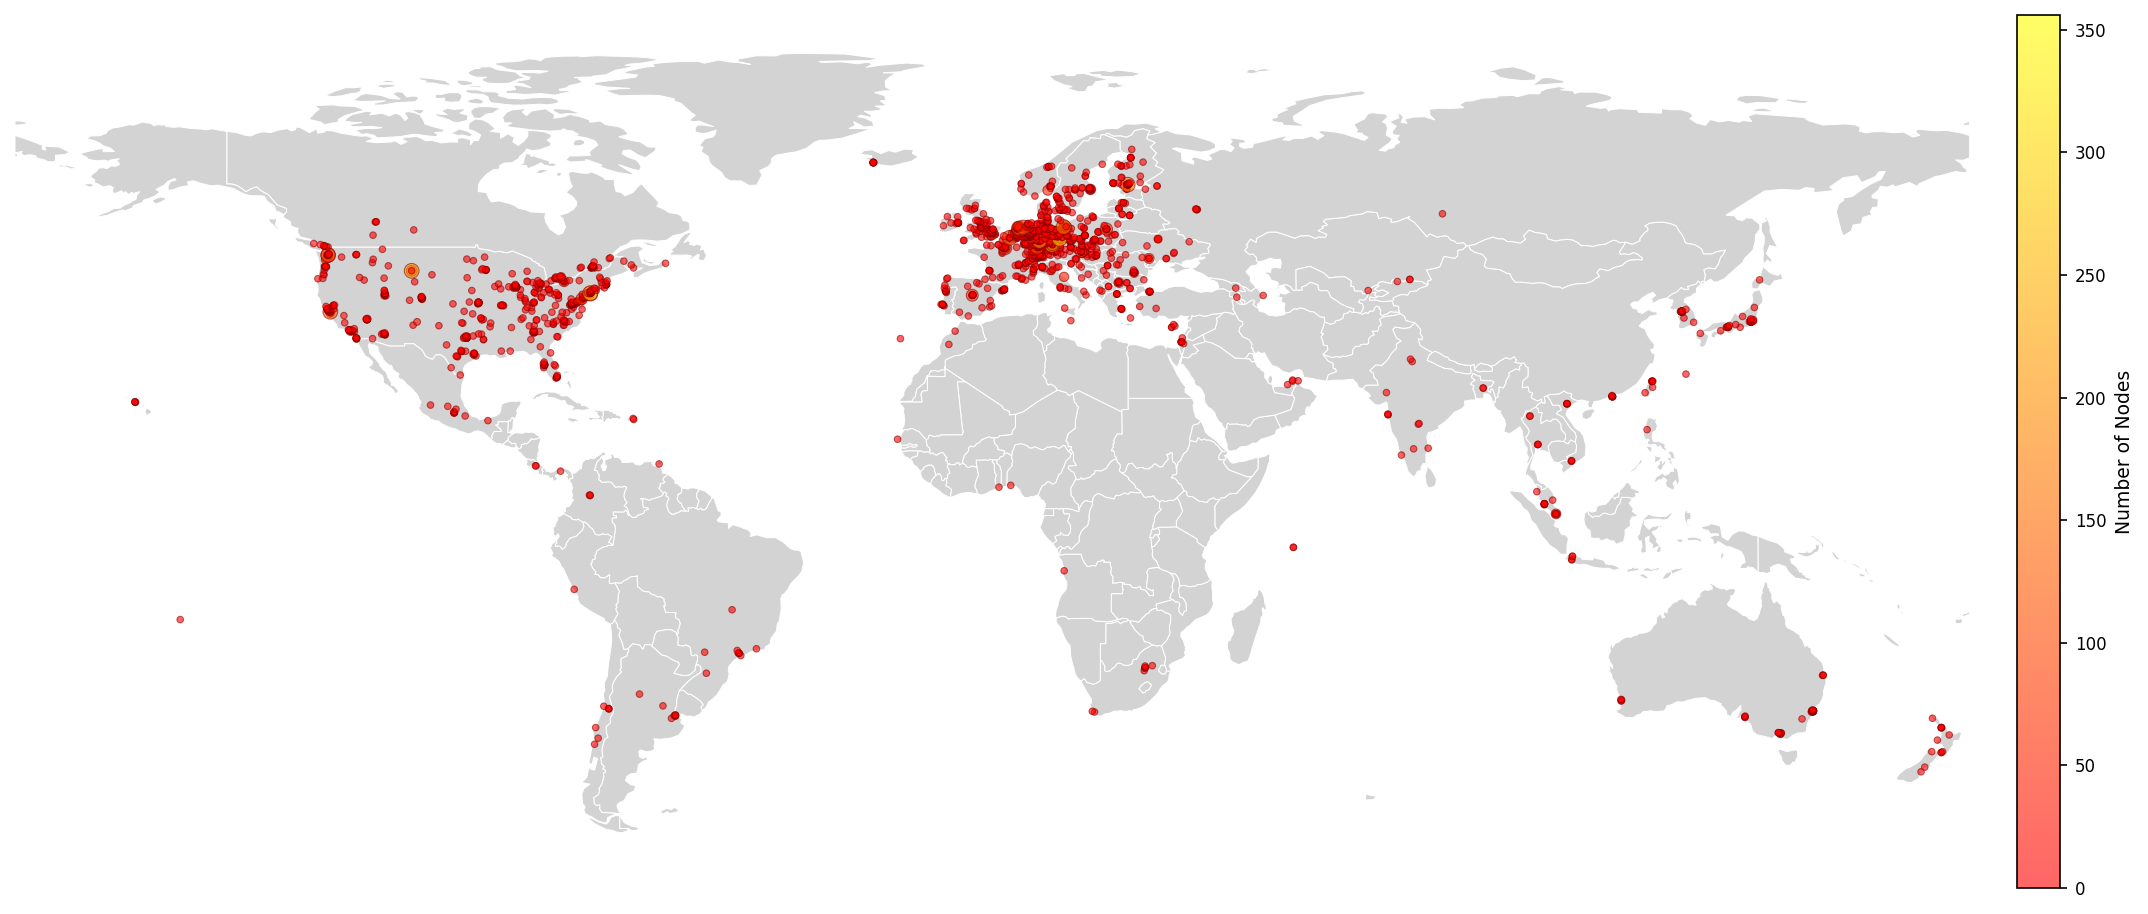
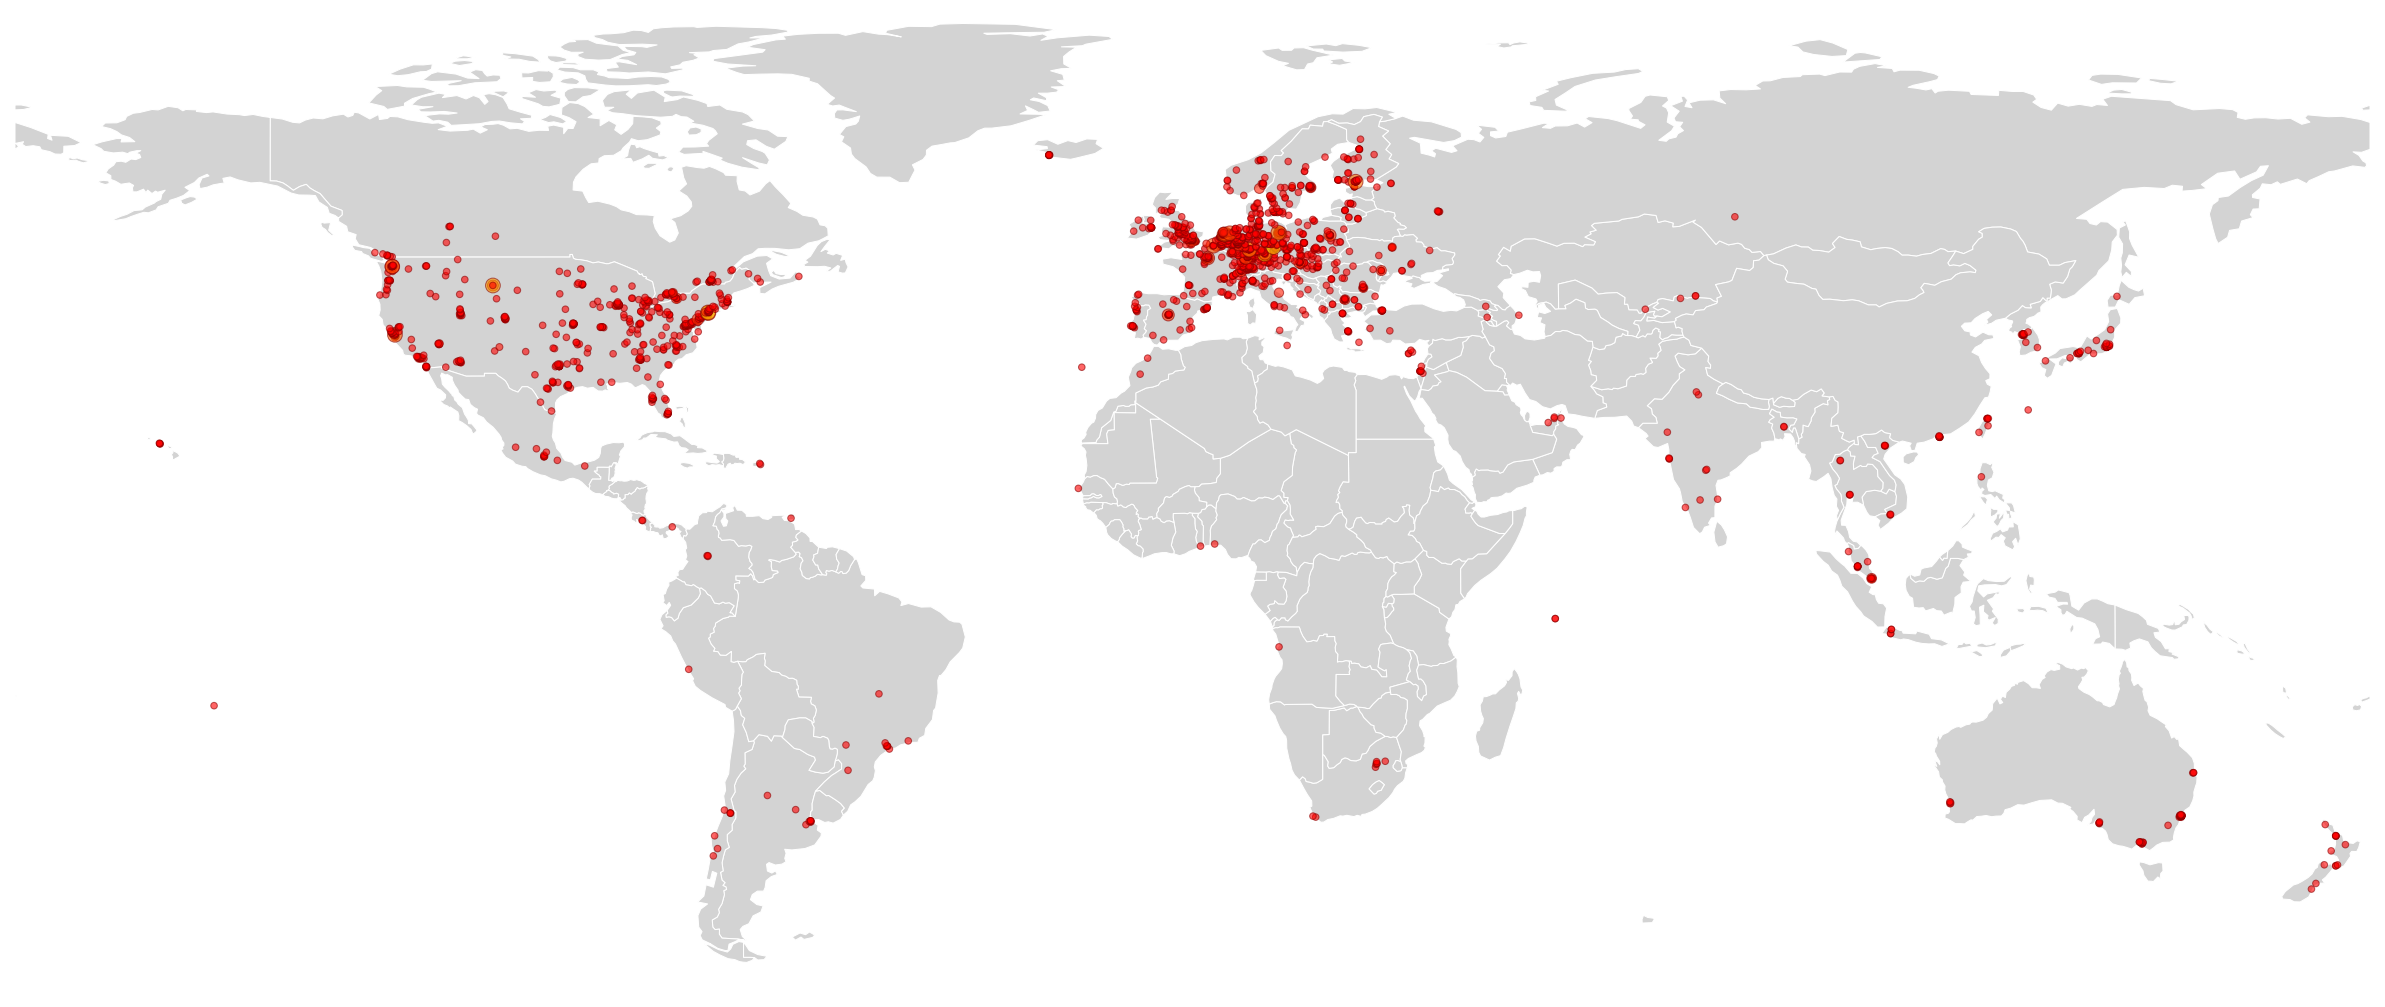
style: remove colorbar from geolocation map
- Removed heatmap legend/colorbar from right side of map
- Cleaner, simpler visualization focused on just the node distribution
- Regenerated combined analytics dashboard

diff --git a/scripts/geolocation_map.py b/scripts/geolocation_map.py
@@ -82,11 +82,6 @@ if len(x) > 0:
         vmin=0,
         vmax=z.max()
     )
-    
-    # Add colorbar with smaller size
-    cbar = plt.colorbar(scatter, label='Number of Nodes', ax=ax, shrink=0.6, pad=0.02)
-    cbar.ax.tick_params(labelsize=8)
-    cbar.set_label('Number of Nodes', fontsize=9)
 else:
     print("No location data to plot")
 
